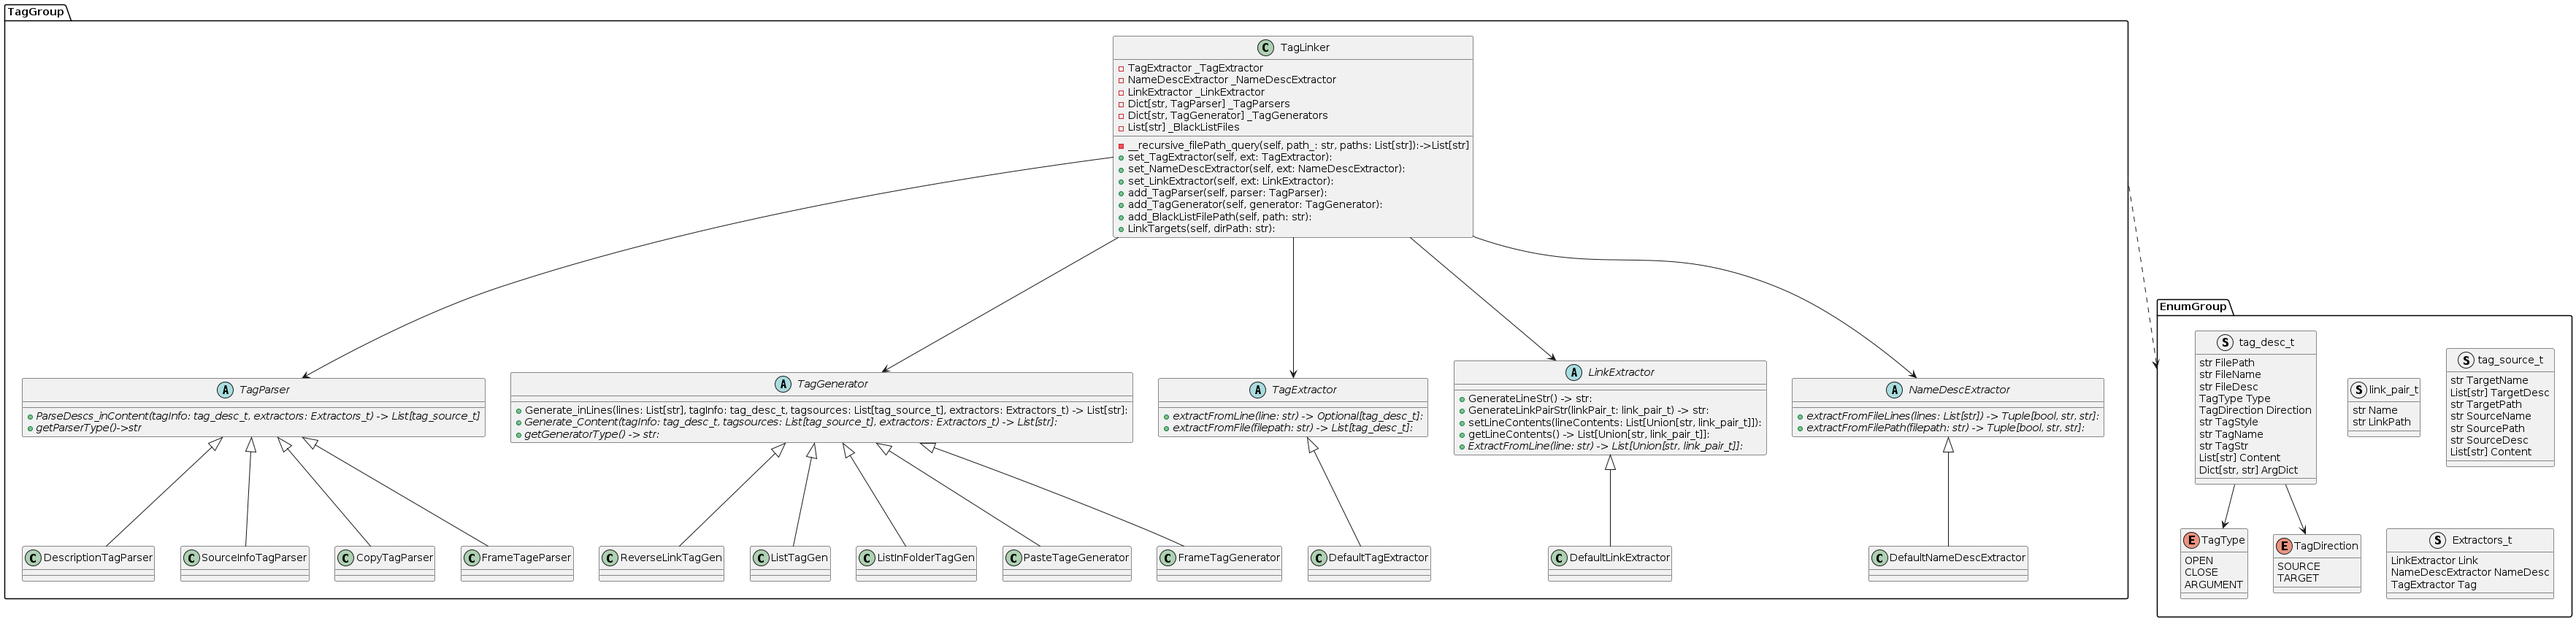
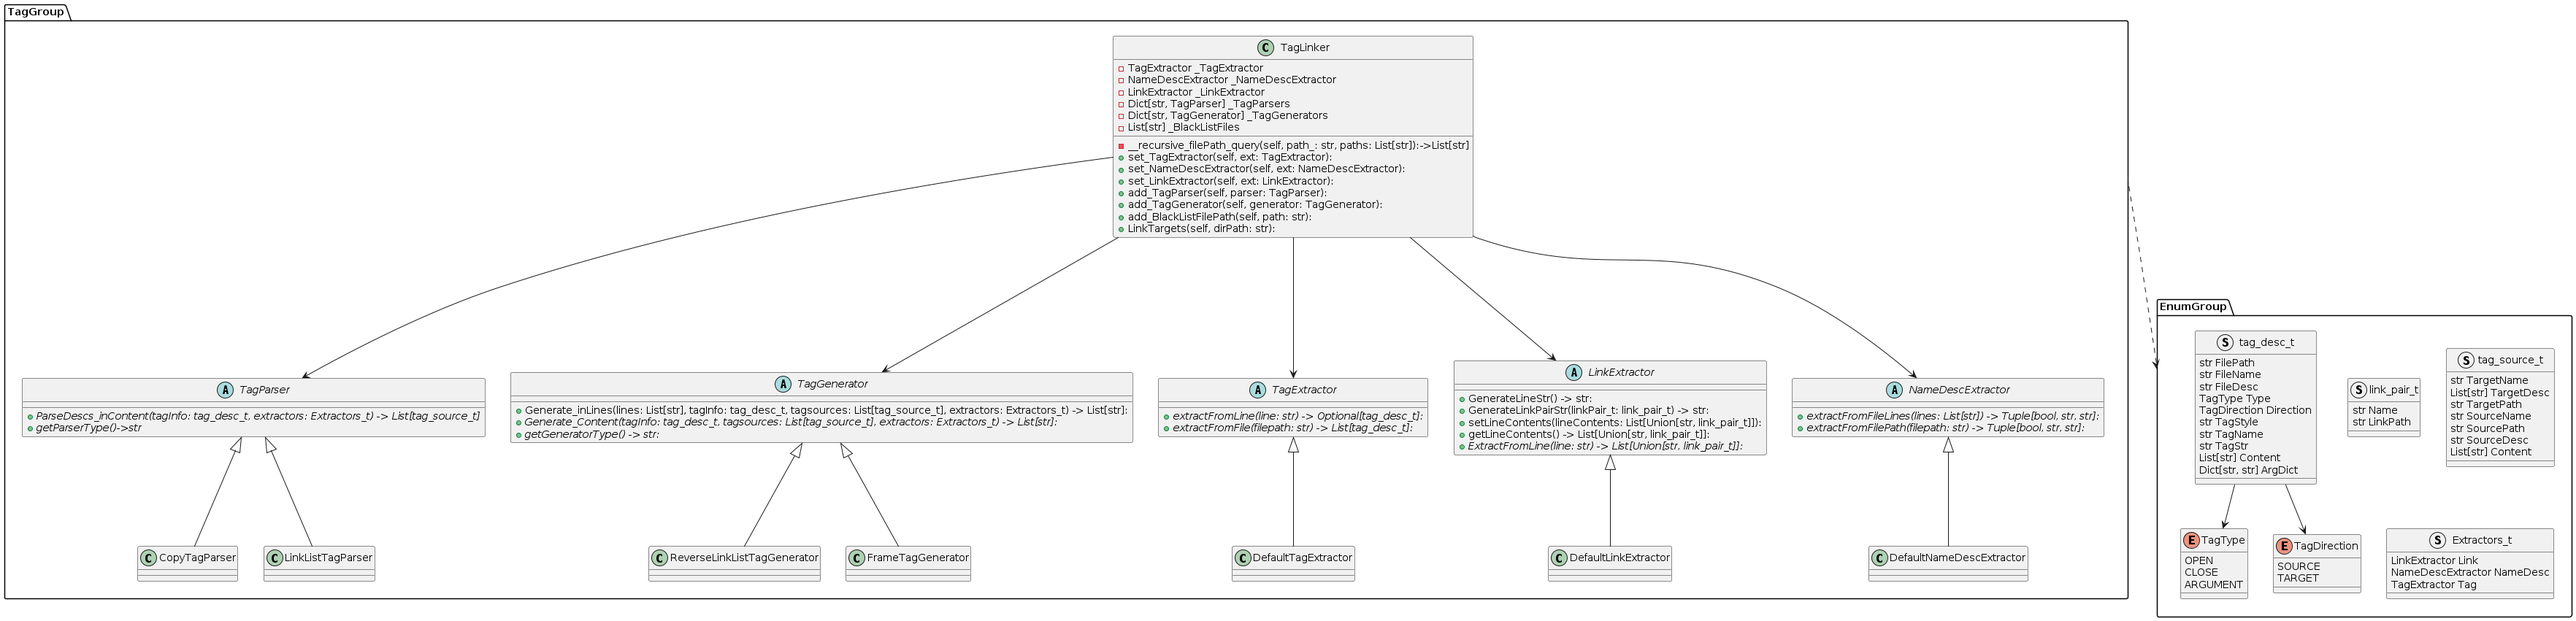
prepare all images & add some pages - fix : taglinker class diagram - add ocr cratium, mksps, housejasuk500, lushstack monorail pages and imgs

Changed region(s): [[0.0, 0.886, 0.5612, 0.9471], [0.0935, 0.7027, 0.1247, 0.7333]]

diff --git a/docs/Ko/buildings/house_jasuk500.md b/docs/Ko/buildings/house_jasuk500.md
@@ -1,9 +1,79 @@
 # 개인 주택 - jasuk500
 
-jasuk500의 개인 주택이다.
+jasuk500의 개인 모던하우스 주택
 
-![asdf](../../asset/blank_img.jpg)
+![asdf](../../asset/buildings/house_jasuk500/main.jpg)
 
+jasuk500의 개인 주택으로, 여러가지 디자인을 합쳐 만들었다.
+
+
+## 업데이트 내역
+### 2023-05-21 인테리어 및 조명 공사
+
+서버에 3차로 새로운 [데코 관련 모드](../history/history.md#history_3rd_mod_add)가 들어옴에 따라 천장의 라이팅과 가구가 바뀌었다. 
+
+내부 가구는 Cookinng For Blockheads라는 모드의 멀티블럭 주방을 사용하여 실제로 요리가 가능하도록 설계됐다. 
+
+:::details 세부 내용
+
+들어가는 문, framed door에 connected light gray glass 를 입힌 것이다.
+위에는 guages and switches 모드의 door detector로 자동으로 사람을 감지하여 문을 열어준다.   
+![asdf](../../asset/buildings/house_jasuk500/door.jpg)
+
+부엌의 모습. Cooking For blockheads 모드를 사용하여 요리를 만들 수 있다.  
+![asdf](../../asset/buildings/house_jasuk500/kitchen.jpg)
+
+
+거실의 모습. computercraft 모드로 tv처럼 움직이도록 사진5개를 연속으로 그려서 움직이는 것처럼 만들었다. 
+원본 사진을 컴퓨터크래프트용 그림으로 만들어주는 간단한 [오픈소스](https://github.com/DownrightNifty/computercraft-stuff)를 사용하여 만들었다.
+
+움직이는 화면은 추후에 추가하겠다.  
+![asdf](../../asset/buildings/house_jasuk500/dining1.jpg)
+![asdf](../../asset/buildings/house_jasuk500/dining2.jpg)
+
+TV에 나오는 화면의 원본 이미지는 원랜 이렇다.  
+![asdf](../../asset/buildings/house_jasuk500/tv_original_img.jpg)
+
+한때 페페짤이었지만 분위기를 너무 해쳐서 도로 바꾼것이다.  
+![asdf](../../asset/buildings/house_jasuk500/pepe.jpg)
+
+석영 반블럭으로 2층으로 올라가는 계단  
+![asdf](../../asset/buildings/house_jasuk500/stair.jpg)
+
+2층 서재  
+![asdf](../../asset/buildings/house_jasuk500/2ndfloor1.jpg)
+![asdf](../../asset/buildings/house_jasuk500/2ndfloor2.jpg)
+
+2층 내 방의 모습.  
+chisel 모드로 비트로 깎아서 모니터, 키보드 마우스를 그렸다. 
+![asdf](../../asset/buildings/house_jasuk500/myroom1.jpg)
+![asdf](../../asset/buildings/house_jasuk500/myroom2.jpg)
+:::
+
+
+### 2023-05-11 외관 공사
+
+마을 중앙 언덕 위에 모던 하우스 집을 짓기 시작했다. 
+
+인터넷에서 모던 하우스 건축 양식 몇개를 섞어서 만들었으며, 공간이 모자라 절벽에 기둥을 만들어 옆으로 늘렸다.
+
+주재료는 white concrete, light gray concrete, smooth quartz 등이다. 
+
+:::details 사진들
+![asdf](../../asset/buildings/house_jasuk500/old1.jpg)
+
+![asdf](../../asset/buildings/house_jasuk500/old2.jpg)
+
+![asdf](../../asset/buildings/house_jasuk500/old3.jpg)
+
+![asdf](../../asset/buildings/house_jasuk500/old4.jpg)
+
+![asdf](../../asset/buildings/house_jasuk500/old5.jpg)
+
+![asdf](../../asset/buildings/house_jasuk500/old6.jpg)
+
+![asdf](../../asset/buildings/house_jasuk500/old7.jpg)
+:::
 
 ## 타 문서와의 관계
 ### 상위 장소

diff --git a/docs/Ko/buildings/lush_stack_monorail.md b/docs/Ko/buildings/lush_stack_monorail.md
@@ -4,15 +4,42 @@
 
 ![asdf](../../asset/buildings/lush_stack_monorail/main.jpg)
 
-오버월드 순환 철도를 타고 러쉬 스택 역에서 내려서 다리를 건너 정거장으로 이동할 수 있다.
-
-러쉬 스택 바이옴을 현수 모노레일을 타서 이동하며 관람할 수 있다.
+오버월드 순환 철도를 타고 러쉬 스택 역에서 내려서 다리를 건너 정거장으로 이동할 수 있으며,
+러쉬 스택 바이옴을 현수 모노레일로 가까이서 관람할 수 있다.
 
 이 과정에서 [불가능한 레시피 : 모노레일 사태](../history/history.md#imposible_recipe)가 터져서 한바탕 소동이 일었다. 
 
-현재 계속 건설 중에 있다.
+Create 모드의 Girder를 사용하여 벽에 앵커를 박아 레일이 단단히 고정된 느낌을 주었다. 
+높은곳 부터 물 위로 아슬아슬한 높이까지 최대한 다양한 뷰를 보여준다. 
+
+## 업데이트 내역
+### 2023-05-21 교량 및 모노레일 레일 추가
+
+:::details 러쉬스택 컬쳐 스페이스에서 레일 정거장 까지 가는 다리
+![asdf](../../asset/buildings/lush_stack_monorail/station1.jpg)
+
+![asdf](../../asset/buildings/lush_stack_monorail/station2.jpg)
+
+![asdf](../../asset/buildings/lush_stack_monorail/station3.jpg)
+
+![asdf](../../asset/buildings/lush_stack_monorail/station4.jpg)
+
+![asdf](../../asset/buildings/lush_stack_monorail/station5.jpg)
+
+![asdf](../../asset/buildings/lush_stack_monorail/station6.jpg)
 
 
+:::
+
+:::details 러쉬스택 모노레일 레일과 앵커
+![asdf](../../asset/buildings/lush_stack_monorail/rail1.jpg)
+
+![asdf](../../asset/buildings/lush_stack_monorail/rail2.jpg)
+
+![asdf](../../asset/buildings/lush_stack_monorail/rail3.jpg)
+
+![asdf](../../asset/buildings/lush_stack_monorail/rail4.jpg)
+:::
 
 ## 타 문서와의 관계
 ### 상위 장소

diff --git a/docs/Ko/buildings/buildings.md b/docs/Ko/buildings/buildings.md
@@ -15,7 +15,7 @@
 |---|---|
 |[ Create 플랫폼](create_platform.md)|Create 시스템을 위한 모듈러 동력 전달 플랫폼.|
 |[ 개인 주택 - BANJUHARA](house_BANJUHARA.md)|BANJUHARA의 개인 주택이다.|
-|[ 개인 주택 - jasuk500](house_jasuk500.md)|jasuk500의 개인 주택이다.|
+|[ 개인 주택 - jasuk500](house_jasuk500.md)|jasuk500의 개인 모던하우스 주택|
 |[ 길드 하우스](guild_house.md)|길드의 메인 하우스. 모두의 침대가 위치해 있다.|
 |[ 답없는 대나무](bamboo_hell.md)|서버의 대나무의 성장제한이 없어서 방치하면 정말 끝도 없이 자라서 흉물이 된다.|
 |[ 러쉬 스택 모노레일](lush_stack_monorail.md)|러쉬 스택 지역을 가까이서 볼 수 있는 모노레일|
@@ -35,6 +35,7 @@
 |[ 지옥문](door_of_hell.md)|지옥으로 통하는 메인 게이트|
 |[ 천문대](observatory.md)|create 회전 베어링을 이용한 접이식 망원경을 볼 수 있는 천문대.|
 |[ 컴팩트 머신 차원](compact_machine_dimension.md)|한블럭 안의 주머니 차원 & 렉없는 클린 차원|
+|[ 탐욕의 탑](tower_of_avarice.md)|탐욕을 제대로 보여줄 예정인 무언가|
 |[ 태초의 건축물](primitive_building.md)|서버에서 만든 최초의 건축물.|
 |[ 하모닉 브릿지](ocr_harmonic_bridge.md)|러쉬 스택과 스파크 타이드 역 사이를 잇는 거대한 현수교|
 <!-- systems_list_dest_close -->

diff --git a/docs/Ko/buildings/tower_of_avarice.md b/docs/Ko/buildings/tower_of_avarice.md
@@ -1,0 +1,41 @@
+# 탐욕의 탑
+
+탐욕을 제대로 보여줄 예정인 무언가
+
+![asdf](../../asset/buildings/tower_of_avarice/prepare1.jpg)
+
+주민들의 허가가 떨어지면 지어지게 될 탐욕의 탑 건설계획. 
+
+건축 가능 여부가 굉장히 불투명한 비운의 건물이라 생각된다.
+
+현재는 빌더를 통해 대략적인 재료와 형태만 잡아놓은 상태다.
+
+:::details 사진들
+![asdf](../../asset/buildings/tower_of_avarice/prepare1.jpg)
+
+![asdf](../../asset/buildings/tower_of_avarice/prepare2.jpg)
+
+![asdf](../../asset/buildings/tower_of_avarice/prepare3.jpg)
+:::
+
+## 타 문서와의 관계
+### 상위 장소
+<!-- tag_source_open:link_list:child_spot -->
+- 길드 주변
+<!-- tag_close -->
+
+<!-- ### 하위 장소 목록 -->
+<!-- tag_target_open:reverse_link_list:child_spot -->
+<!-- tag_arg:preset:spots_inside -->
+<!-- tag_close -->
+
+<!-- ### 보유 시설 목록 -->
+<!-- <!-- tag_target_open:reverse_link_list:building_spot -->
+<!-- tag_arg:preset:systems_inside -->
+<!-- tag_close -->
+
+### 참여자
+<!-- tag_source_open:link_list:member_contribute -->
+- [BANJUHARA](../members/BANJUHARA.md)  
+건축 준비
+<!-- tag_close-->

diff --git a/docs/Ko/buildings/ocr_cratium.md b/docs/Ko/buildings/ocr_cratium.md
@@ -2,6 +2,8 @@
 
 세상에서 제일 큰 화산과 대수층
 
+![sdf](../../asset/buildings/ocr_cratium/main.jpg)
+
 <!-- tag_target_open:frame:overworld_circular_rail -->
 :::tip 오버월드 순환 철도 노선도
 [오버월드 순환 철도](overworld_circular_railway.md)의 모든 역 목록
@@ -9,6 +11,21 @@
 [길드](ocr_the_guild.md) -> [러쉬 스택](ocr_lush_stack.md) -> [스파크 타이드](ocr_spark_tide.md) -> [크라시움](ocr_cratium.md) -> ...
 :::
 <!-- tag_close -->
+
+현재 오버월드에서 발견된 가장 큰 화산 분화구와, 옆에 3층으로 이루어진 대수층 지형이 결합된 특이한 형태.
+
+y좌표가 거의 150으로 매우 높은 지형이다. 바로 위에 구름이 지나간다. 
+
+현재 철도만 이어져 있는 형태이며, 나중에 역과 모노레일을 추가하여 화산 내부를 구경할 수 있게 만들 예정이다.
+
+:::details 사진들
+
+깔리고 있는 레일  
+![asdf](../../asset/buildings/ocr_cratium/rail.jpg)
+
+물과 용암이 같이 있는 특이한 바이옴  
+![asdf](../../asset/buildings/ocr_cratium/water_andlava.jpg)
+:::
 
 
 

diff --git a/docs/Ko/systems/mk_sps.md b/docs/Ko/systems/mk_sps.md
@@ -2,7 +2,17 @@
 
 메카니즘의 최종 목적, 반물질 입자 생성기
 
-![asdf](../../asset/blank_img.jpg)
+![asdf](../../asset/systems/mk_sps/main1.jpg)
+
+Mekanism의 엔드컨텐츠인 초임계 상변환 시스템. 핵폐기물을 중성자 활성기로 처리한 폴로늄에 대량의 전기를 공급해 반물질을 만드는 시설이다.
+
+용도가 다양하지는 않지만 강력한 최종 테크 조합법에 쓰이기 때문에 핵융합 이후에 지어줘야 하는 시설이다. 일반적인 핵폐기물 처리 공정이 남기는 찌꺼기인 Spent Nuclear Waste조차 없이 손도 깔끔으로 마무리해주는 공정.
+
+핵분열 이후에 바로 올릴 수도 있지만 전기 소모량이 핵융합 없이 감당될 수준이 아니다.
+
+정면샷
+
+![sdf](../../asset/systems/mk_sps/main2.jpg)
 
 ## 타 문서와의 관계
 ### 위치

diff --git a/docs/Ko/members/BANJUHARA.md b/docs/Ko/members/BANJUHARA.md
@@ -49,5 +49,6 @@
 |[에틸렌 발전소](../systems/mk_ethylene_generator.md)|파워 플랜트 설계 및 제작|
 |[오버월드 순환 철도](../buildings/overworld_circular_railway.md)|철도 배치, 경로 계획|
 |[쿠킹 벙커](../systems/cooking_bunker.md)|건물 디자인 및 자동화 설계 / 제작|
+|[탐욕의 탑](../buildings/tower_of_avarice.md)|건축 준비|
 |[핑크 슬라임 탱크](../systems/pink_slime_tank.md)|배치하기|
 <!-- tag_close -->

diff --git a/docs/Ko/SUMMARY.md b/docs/Ko/SUMMARY.md
@@ -33,6 +33,7 @@
   * [붉은 시계탑](buildings/red_clocktower.md)
   * [식물의 방](buildings/room_of_plant.md)
   * [바람이 머무는 식당](buildings/windy_restaurant.md)
+  * [탐욕의 탑](buildings/tower_of_avarice.md)
   * [컴팩트 머신 차원](buildings/compact_machine_dimension.md)
   * [개인 주택 - jasuk500](buildings/house_jasuk500.md)
   * [개인 주택 - BANJUHARA](buildings/house_BANJUHARA.md)

diff --git a/docs/Ko/buildings/ocr_lush_stack.md b/docs/Ko/buildings/ocr_lush_stack.md
@@ -18,6 +18,8 @@
 - F2층 : 돌기둥의 위로 올라가 전망대가 있다. 맨 위의 호수 밑바닥과 연결되어 있어서 수중 통로를 통과한다.
 - B1층 : 러쉬스택 역사 내의 카페, 음식점이 위치해 있으며, 러쉬 스택 모노레일로 갈 수 있는 다리가 있다.
 
+## 업데이트 내역
+### 2023-05-11 정거장 연결
 :::details 사진들
 
 첫 철도 관통 직후  

diff --git a/docs/Ko/history/history.md b/docs/Ko/history/history.md
@@ -136,6 +136,7 @@ onEvent('recipes', (event) => {
 
  :::
 
+<span id="history_3rd_mod_add"></span>
  ## 2023-05-20 3차 모드 추가
 
  이번엔 서버의 후반부에 접어드는 시기로, 주로 데코 및 조명 관련으로 모드가 추가되었다. 
